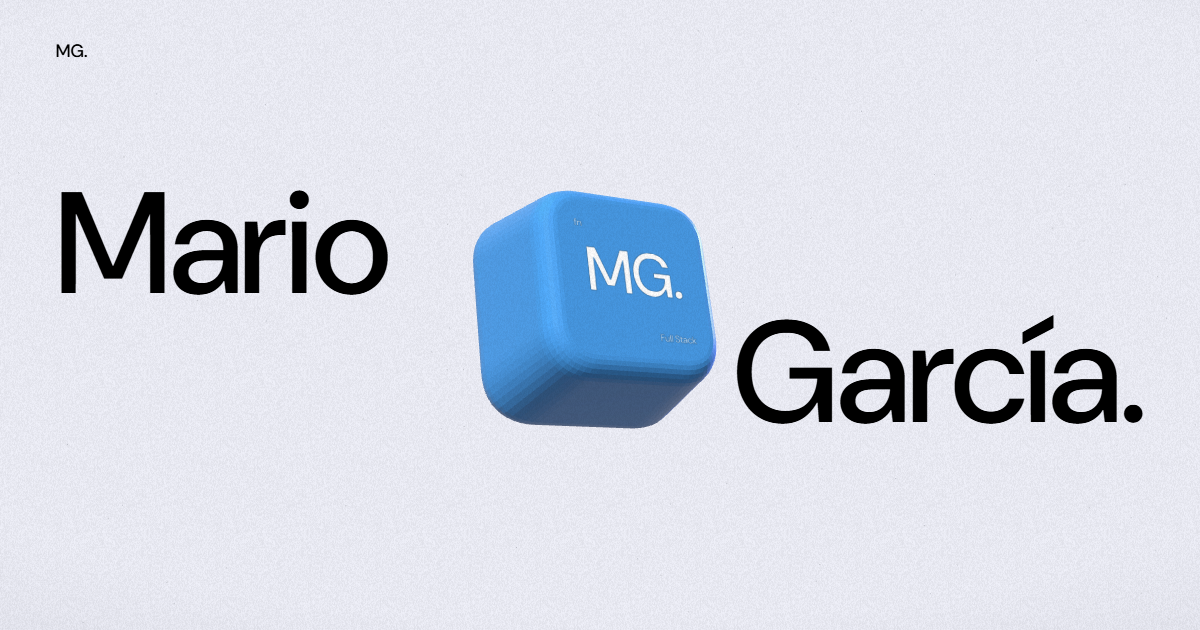
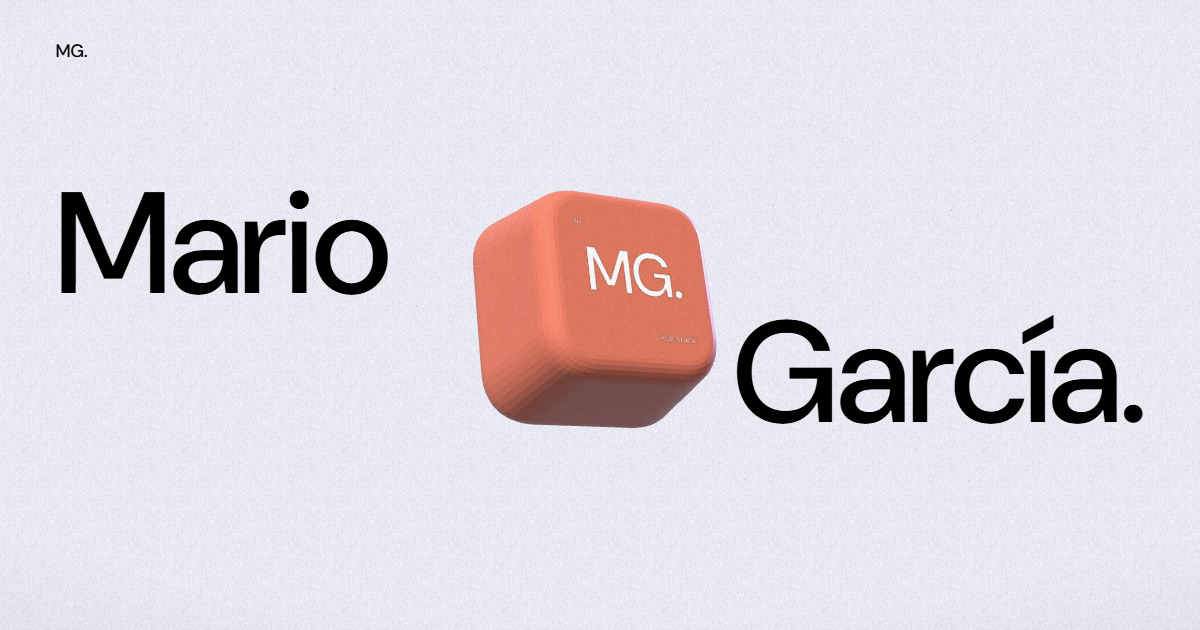
style: try coral as the accent
Coral (#f2846b) replaces sky blue across the UI, favicon, icons, share image
and the signature key (albedo recalibrated so its lit face renders as the
accent). Kept as its own commit so it can be reverted on its own.

Changed region(s): [[0.37, 0.3016, 0.6167, 0.6937]]

diff --git a/src/scene/stage.ts b/src/scene/stage.ts
@@ -47,7 +47,7 @@ export function lightScene(scene: THREE.Scene, renderer: THREE.WebGLRenderer): T
   key.position.set(-4, 7, 9)
   const rim = new THREE.DirectionalLight(linearColor('#9aa4ff'), 2.4)
   rim.position.set(7, 3, -7)
-  const flash = new THREE.PointLight(linearColor('#cfe6ff'), 0, 7, 2)
+  const flash = new THREE.PointLight(linearColor('#ffd8cc'), 0, 7, 2)
 
   scene.add(key, rim, flash, new THREE.HemisphereLight(linearColor('#ffffff'), linearColor('#2b2e3a'), 0.35))
   return flash

diff --git a/src/scene/KeyboardScene.ts b/src/scene/KeyboardScene.ts
@@ -142,7 +142,7 @@ export class KeyboardScene {
         toneMapped: !isSignature,
         metalness: 0,
         envMapIntensity: isSignature ? 0.45 : 0.95,
-        emissive: linearColor('#9ccbff'),
+        emissive: linearColor('#ffb39f'),
         emissiveIntensity: 0,
       })
       if (bodyMaterial instanceof THREE.MeshPhysicalMaterial) bodyMaterial.reflectivity = 0.15

diff --git a/src/scene/constants.ts b/src/scene/constants.ts
@@ -5,7 +5,7 @@ export const CAMERA = { fov: 30, z: 12 } as const
 /** Albedo of each key. */
 export const KEY_BODY_COLORS: Record<KeyColor, string> = {
   // Calibrated so the lit top face renders as the UI accent (--accent); see the signature material.
-  accent: '#397fb7',
+  accent: '#c0664e',
   paper: '#ffffff',
   graphite: '#2b2e3a',
   lime: '#c1ff00',

diff --git a/src/styles/tokens.css b/src/styles/tokens.css
@@ -5,7 +5,7 @@
   --ink: #000000;
   --graphite: #2b2e3a;
   --haze: #e4e6ef;
-  --accent: #4ea3ee;
+  --accent: #f2846b;
   --lime: #c1ff00;
   --periwinkle: #aab3ff;
   --font: 'DM Sans Variable', ui-sans-serif, system-ui, -apple-system, 'Segoe UI', Roboto, sans-serif;
